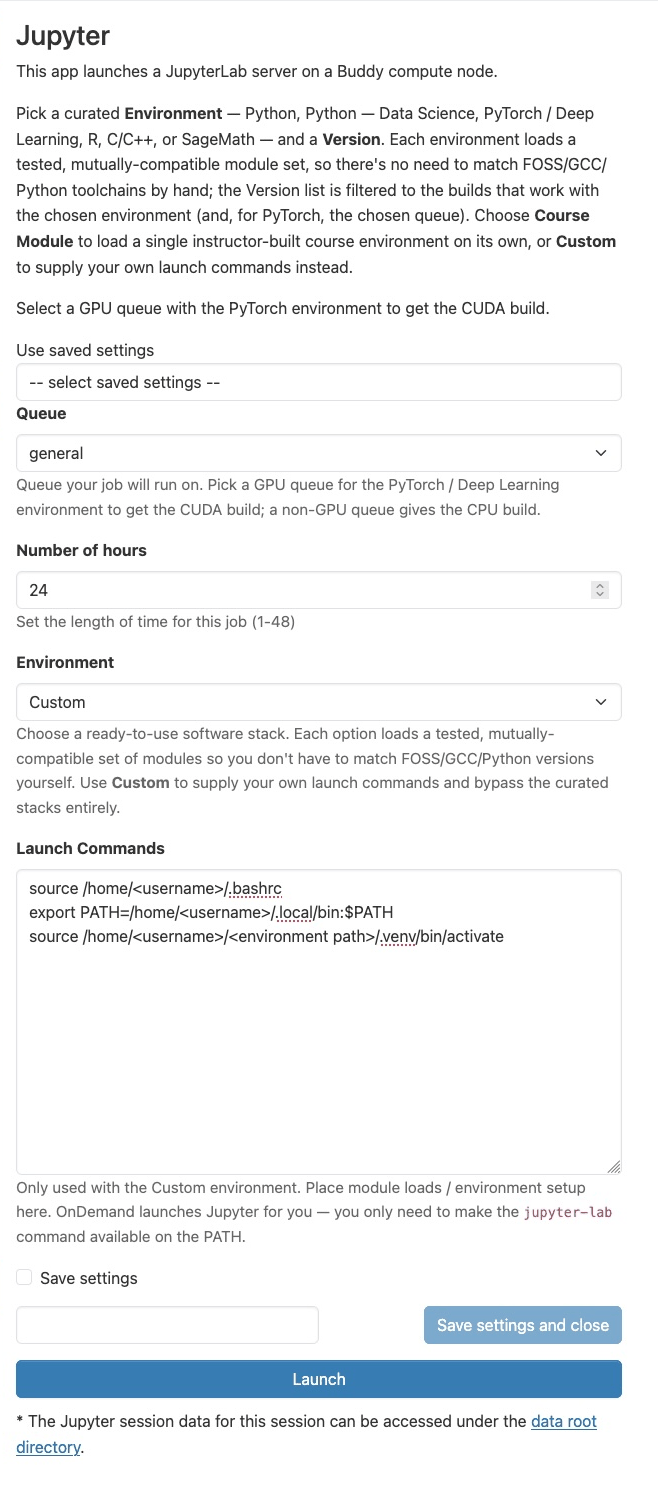
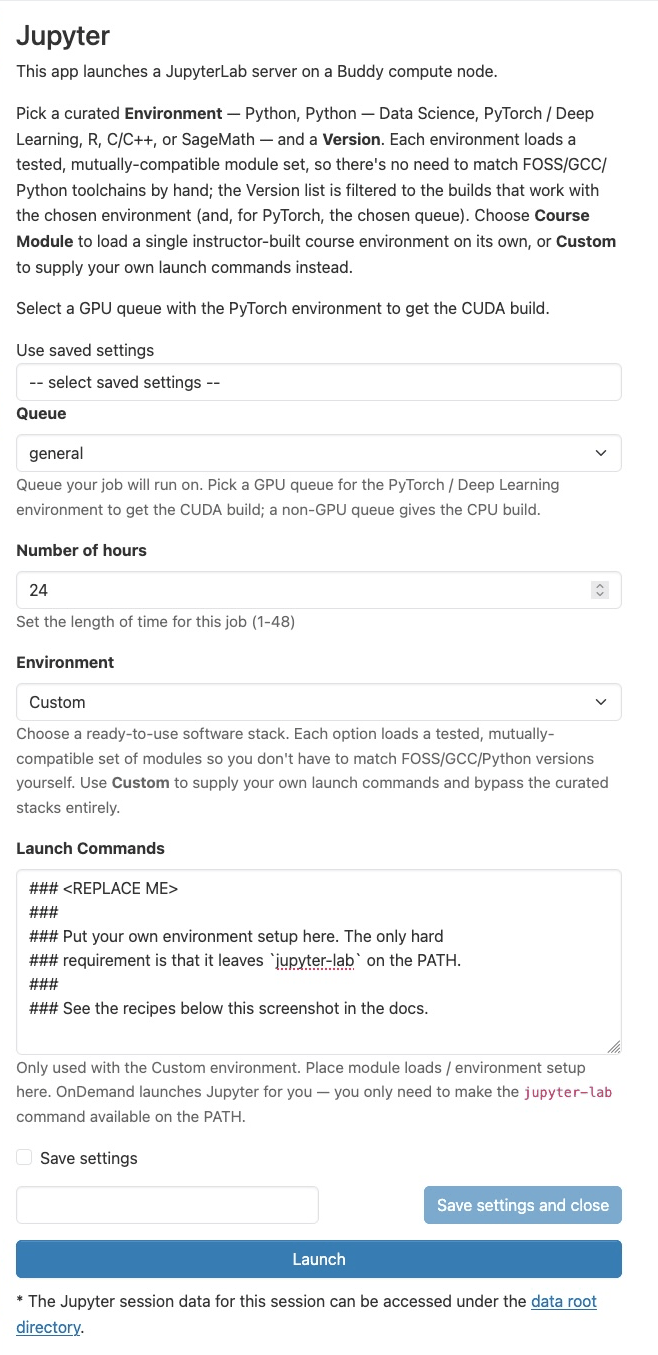
Use a placeholder in the Custom screenshot's Launch Commands
The previous capture showed a working uv activation in the Launch Commands
box, which competed with the two recipes immediately below it on the page
and pinned the screenshot to one particular way of doing it. Replace it
with a <REPLACE ME> placeholder that states the one hard requirement
(jupyter-lab on the PATH) and points readers down the page.

Reword the line under the image to match: it no longer describes the box's
contents, it introduces the two recipes that follow.

Claude-Session: https://claude.ai/code/session_01RJ7u8VU7ryLYDNbYwL7xTz

Changed region(s): [[0.0, 0.0, 0.9422, 0.7439], [0.0304, 0.8679, 0.9422, 0.9919], [0.0304, 0.7749, 0.9422, 0.8679]]

diff --git a/source/software/jupyter_python.rst b/source/software/jupyter_python.rst
@@ -221,9 +221,9 @@ starting from a clean environment.
 
 |
 
-The commands above activate a uv environment; that recipe is covered in full in
-:ref:`jupyter-uv` below. A simpler use of Custom is to name a combination of
-modules that no curated environment offers:
+The two recipes below cover what most people need. The simpler one names a
+combination of modules that no curated environment offers; the other, in
+:ref:`jupyter-uv`, launches JupyterLab from one of your own uv environments.
 
 A combination of modules
 ~~~~~~~~~~~~~~~~~~~~~~~~
